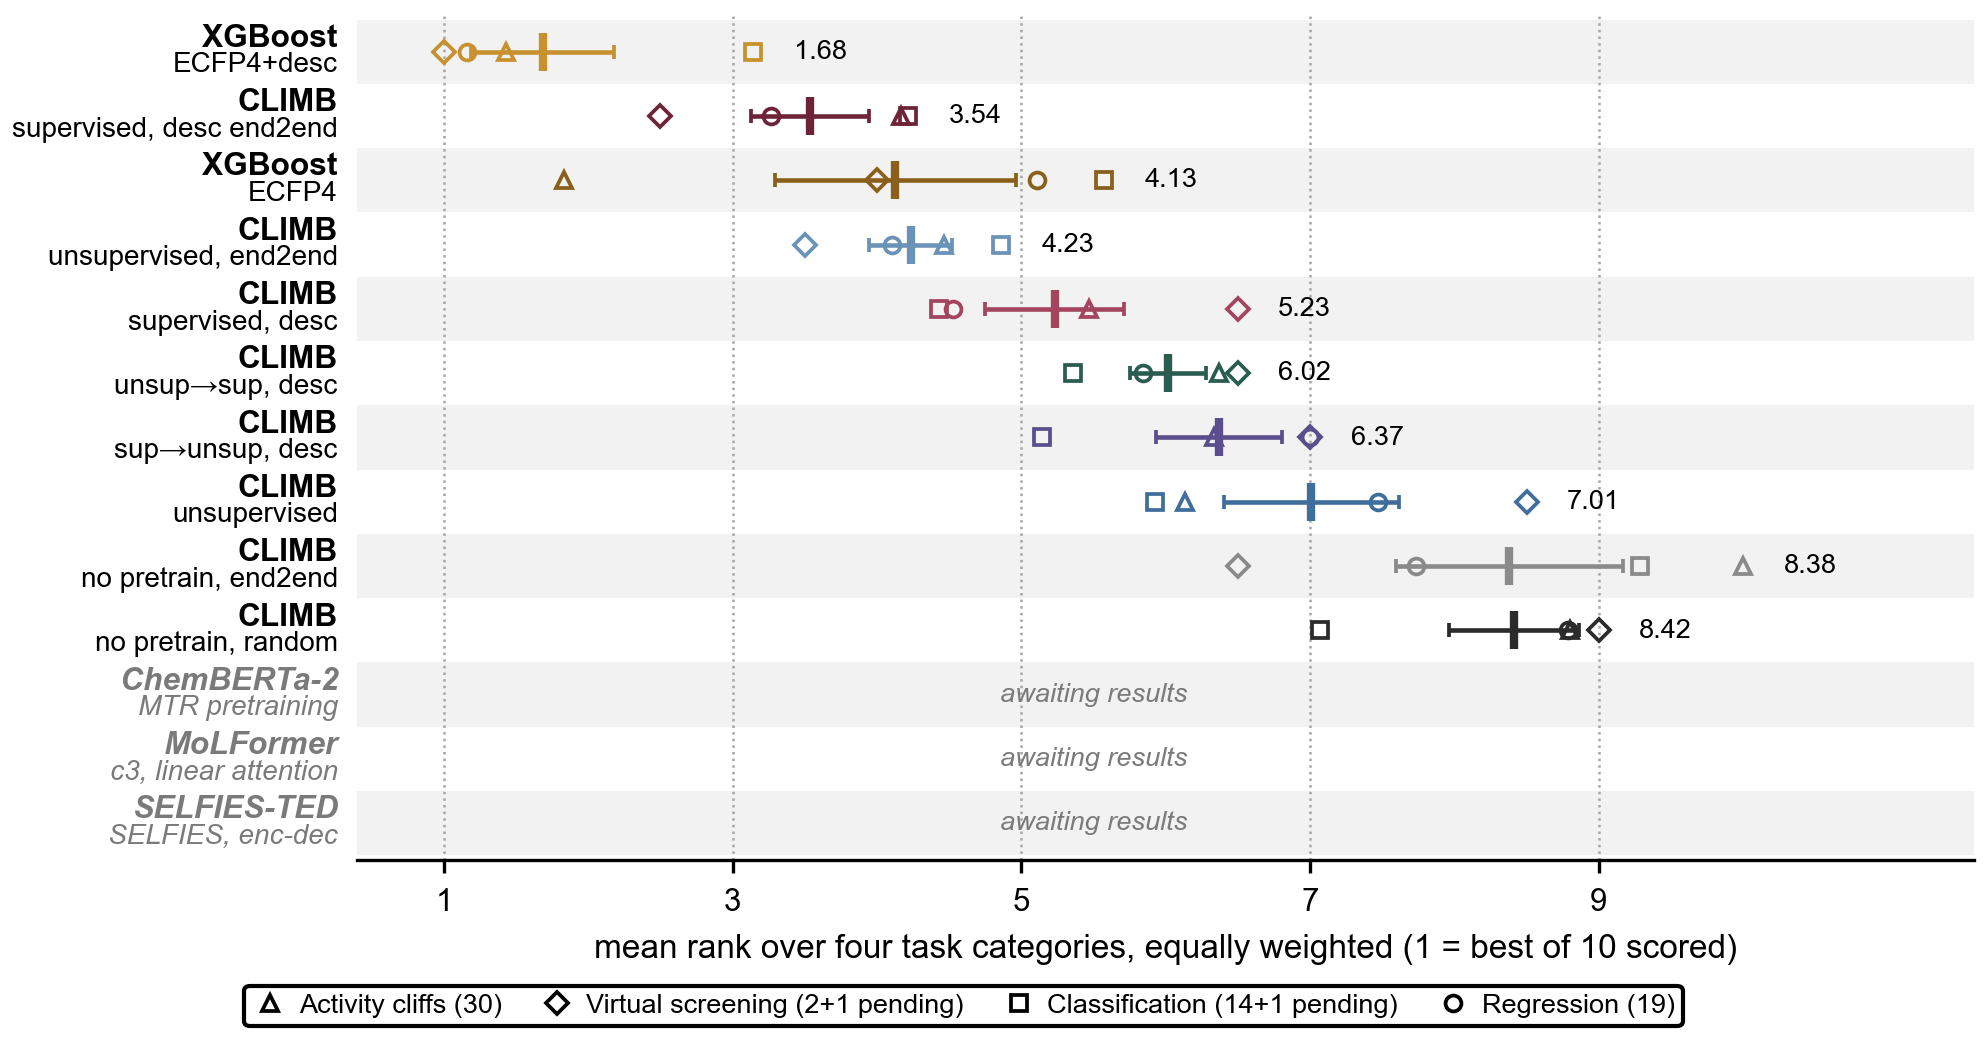
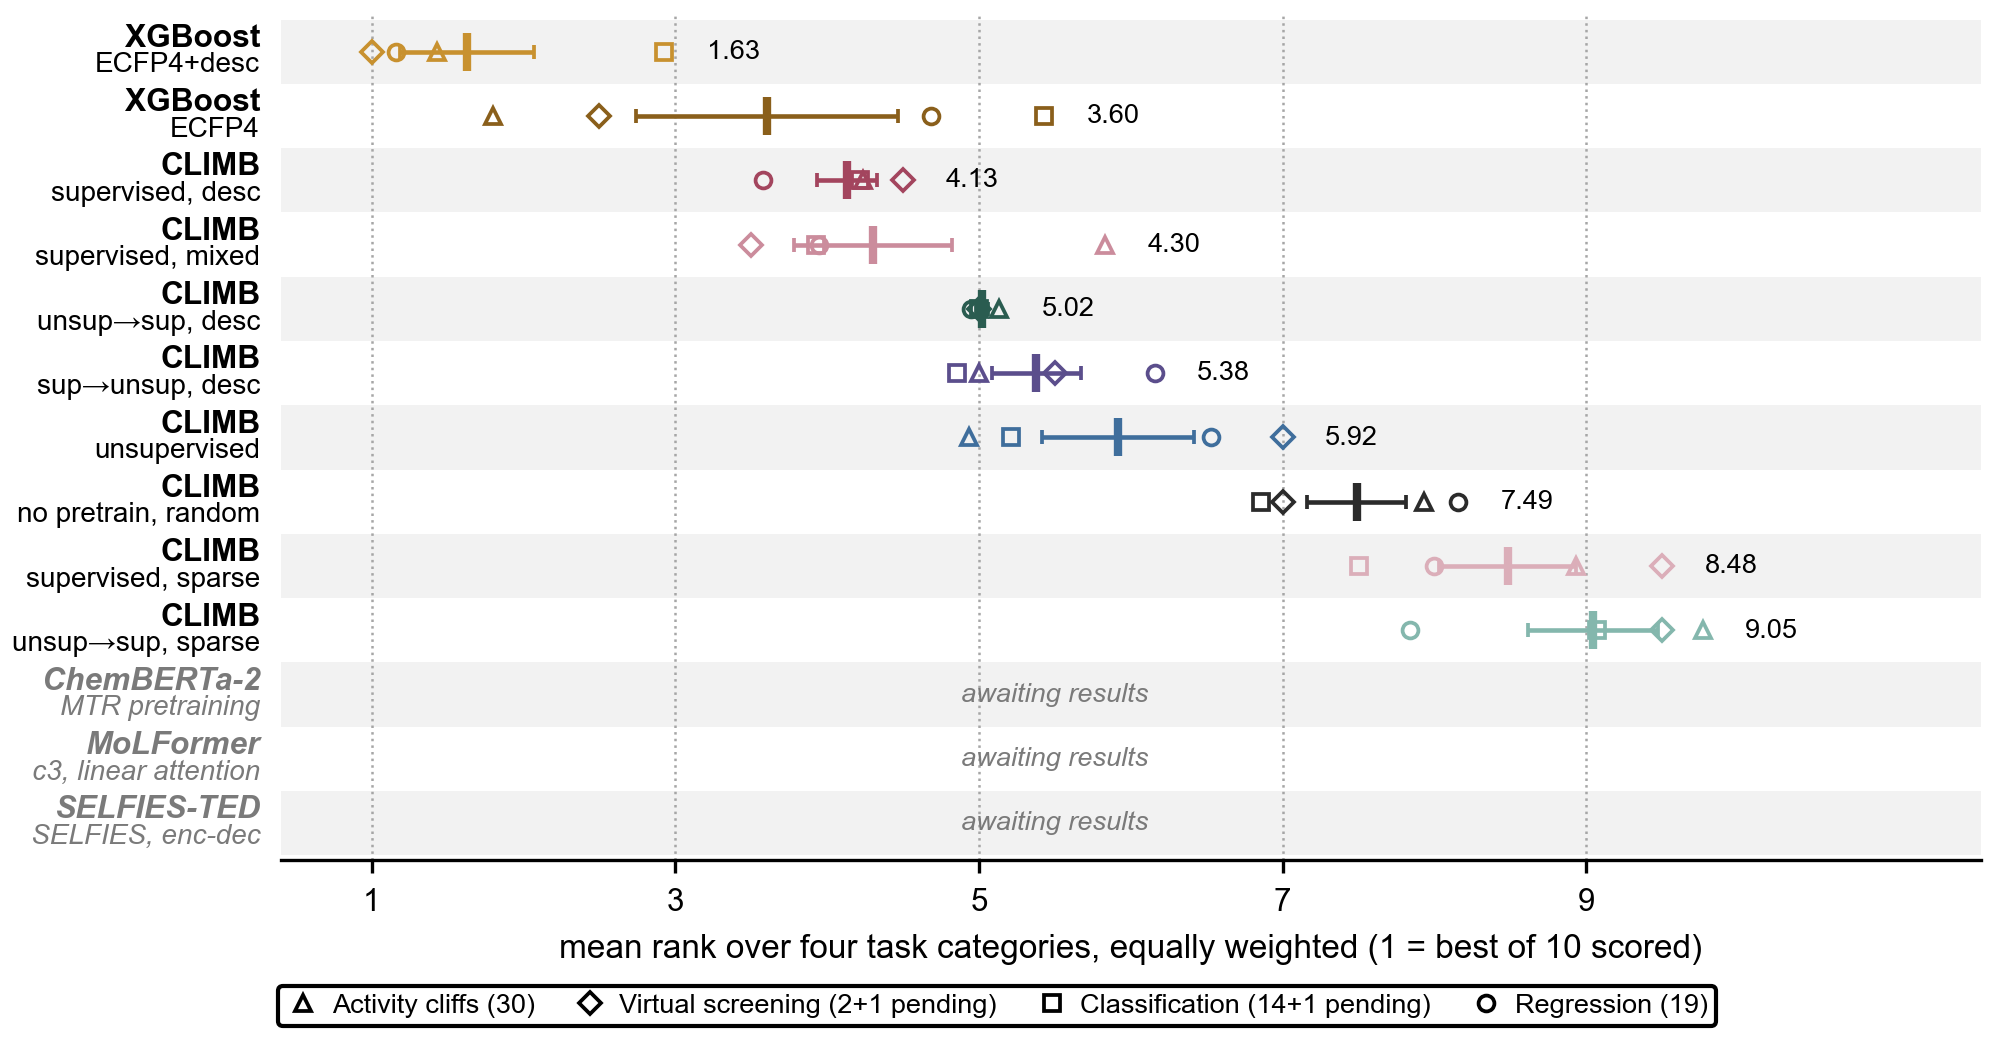
fig_A: Leif's eight CLIMB arms, and centre the legend by measurement
The CLIMB eight are now sup dense/sparse/mixed, unsup, unsup->sup dense/sparse,
sup->unsup dense and random. Thirteen rows with the two anchors and the three
literature CLMs.

EVERY ARM ON THE PLATE IS NOW A FROZEN REPRESENTATION WITH A TRAINED HEAD --
all four end-to-end arms are gone. That is a real improvement rather than a
cut for space: fine-tuning the whole network is the largest single effect in
this benchmark, so a table mixing frozen probes with fine-tuned networks ranks
two protocols at once, and an end-to-end row placing high says something about
fine-tuning rather than about pretraining. fig_A1 still carries that
comparison, with its own end-to-end key.

The legend is now centred by MEASUREMENT rather than by a tuned constant.
Nudging the anchor does not converge -- the saved plate is a tight crop, so
moving the legend moves the crop and the crop's centre moves with it (three
passes got to -21px and stalled). The stable reference is the axes tight bbox,
which is what sets the crop whenever the legend is the narrower of the two;
measured after a draw it lands at 0px, and it re-centres itself when the arm
list changes the width of the label column. Same reason the width multiplier
now carries a note that it moves with the label column: shortening the arm
labels took the plate from 6.69 to 6.36in.

The console table printed "CLIMB" for nine consecutive rows once _meta started
returning the two label lines separately; it prints both again.

diff --git a/figures/fig_A.py b/figures/fig_A.py
@@ -6,11 +6,11 @@ Full A4 text-block width, and as short as the content allows: one row per model,
 panel. The six per-dataset panels that used to sit underneath are fig_A2's job; repeating them
 here cost most of a page and said nothing the ranking did not.
 
-WHAT IS RANKED. Thirteen models. Each is ranked WITHIN every individual dataset (1 = best of the
-thirteen), those per-dataset ranks are averaged within each of four task categories, and the four
+WHAT IS RANKED. Thirteen models, every one of them a FROZEN representation with a trained head. Each is ranked WITHIN every individual dataset (1 = best of the
+field), those per-dataset ranks are averaged within each of four task categories, and the four
 category means are averaged with EQUAL WEIGHT. Ranking per dataset is what makes the pooling
 legal: the metrics are heterogeneous (RMSE, ROC-AUC, PR-AUC, NEF1%, Pearson r, Spearman rho) and
-cannot be averaged. A dataset scored on only k of the thirteen is rescaled from [1..k] to [1..13]
+cannot be averaged. A dataset scored on only k of the field is rescaled to the full field
 so a missing model cannot flatter the rest.
 
     coloured tick mean of the four category ranks
@@ -37,8 +37,7 @@ TWO NON-UNIFORMITIES THE CAPTION ALSO HAS TO CARRY (notes/figA-seed-axis-is-not-
 
 MISSING DATA IS DRAWN, NOT OMITTED. Three arms and two datasets are commissioned and not yet
 back. An arm with no results is a labelled empty row, not an absent row: dropping it would make
-the plate look finished and quietly renumber the field from thirteen to ten, which changes every
-rank on the page. The rank field is fixed at len(ARMS_13) for the same reason.
+the plate look finished and quietly renumber the field, which changes every rank on the page.
 
 Run:  python3 -m figures.fig_A
 """
@@ -55,15 +54,21 @@ from figures import tasksuites as T
 check_font()
 INK = "#000000"
 
-# ---------------------------------------------------------------- the thirteen -----------------
-# ASSUMED SUBSET, stated here rather than inferred: two classical anchors at XGBoost, the six
-# mainline CLIMB objectives plus two no-pretraining controls at frozen+MLP, and the three
-# literature CLMs. Changing the field is a one-line edit here; it is deliberately NOT derived from
-# arms.in_ranking, which admits all 22 arms including fig_A2's ablation ladder.
-ARMS_13 = ["ecfp", "ecfp_desc",
-           "unsup", "sup_dense", "u2s_dense", "s2u_dense", "unsup_e2e", "sup_dense_e2e",
-           "random_encoder", "e2e_no_pretrain",
-           "chemberta_mtr", "molformer_c3", "selfies_ted"]
+# ---------------------------------------------------------------- the ranked field --------------
+# The CLIMB seven are Leif's list (2026-08-25). Changing the field is a one-line edit here; it is
+# deliberately NOT derived from arms.in_ranking, which admits all 22 arms including fig_A2's
+# ablation ladder.
+#
+# EVERY ARM ON THIS PLATE IS NOW A FROZEN REPRESENTATION WITH A TRAINED HEAD. The list drops all
+# four end-to-end arms, which is a real improvement rather than a cosmetic cut: fine-tuning the
+# whole network is the largest single effect in this benchmark, so a table mixing frozen probes
+# with fine-tuned networks ranks two protocols at once and an end-to-end row placing high says
+# something about fine-tuning rather than about pretraining. fig_A1 carries that comparison, with
+# its own end-to-end key.
+RANKED_ARMS = ["ecfp", "ecfp_desc",
+               "sup_dense", "sup_sparse", "sup_mixed",
+               "unsup", "u2s_dense", "u2s_sparse", "s2u_dense", "random_encoder",
+               "chemberta_mtr", "molformer_c3", "selfies_ted"]
 
 # Arms with no entry in arms.py because their results have not landed. They are promoted into
 # arms.py -- colour, label, replicate convention -- when the run comes back; until then they are
@@ -81,12 +86,12 @@ PENDING_ARMS = {
 }
 assert not (set(PENDING_ARMS) & set(ARMS)), \
     "an arm is declared PENDING here and also present in arms.py -- promote it and delete it here"
-assert set(ARMS_13) - set(ARMS) == set(PENDING_ARMS), \
-    f"ARMS_13 names arms that are neither in arms.py nor declared pending: " \
-    f"{sorted(set(ARMS_13) - set(ARMS) - set(PENDING_ARMS))}"
+assert set(RANKED_ARMS) - set(ARMS) == set(PENDING_ARMS), \
+    f"RANKED_ARMS names arms that are neither in arms.py nor declared pending: " \
+    f"{sorted(set(RANKED_ARMS) - set(ARMS) - set(PENDING_ARMS))}"
 
-N = len(ARMS_13)
-HAVE = [a for a in ARMS_13 if a in ARMS]
+N = len(RANKED_ARMS)
+HAVE = [a for a in RANKED_ARMS if a in ARMS]
 
 
 def _meta(a):
@@ -106,7 +111,7 @@ def compute():
     """
     out, cat, R = T.wide_ranks(HAVE)
     missing = [a for a in HAVE if a not in out.index]
-    assert not missing, f"fig_A: arms in ARMS_13 with no row in the score table: {missing}"
+    assert not missing, f"fig_A: arms in RANKED_ARMS with no row in the score table: {missing}"
     avail = {k: int((cat == k).sum()) for k in T.CATEGORIES}
     return out, avail
 
@@ -116,7 +121,7 @@ BAND = "#F2F2F2"          # zebra row band, same value as fig_A1 so the two plat
 
 def main():
     out, avail = compute()
-    order = list(out.sort_values("mean_rank").index) + [a for a in ARMS_13 if a not in HAVE]
+    order = list(out.sort_values("mean_rank").index) + [a for a in RANKED_ARMS if a not in HAVE]
     nfield = len(HAVE)
 
     # One row per model. Thirteen rows plus axis and legend inside 3.4in, roughly a third of A4's
@@ -126,8 +131,10 @@ def main():
     # figsize wide: an axes box that leaves slack renders narrower than the text block and LaTeX
     # then scales every font in it up relative to the rest of the set. This layout is authored to
     # fill the canvas and measured at 6.73in against a 6.69in text block. Re-measure if the axes
-    # fractions below change -- the first version, with slack on both sides, rendered 5.58in.
-    fig = plt.figure(figsize=(STYLE["col2"] * 6.69 / 6.31, 3.45))
+    # fractions below change, AND when the row labels change: the multiplier is the ratio of the
+    # canvas to the crop, and the crop is set by the widest label in the left column, so shortening
+    # the arm list moved it. First version, with slack on both sides, rendered 5.58in.
+    fig = plt.figure(figsize=(STYLE["col2"] * 1.115, 3.45))
     # Row pitch is set by the axes HEIGHT, and it has two lines of text to hold rather than one
     # (Leif 2026-08-25: "XGBoost and its subtitle aren't squashed that much"). 2.83in over 13 rows
     # is 0.218in per row; at the previous 2.50in the bold line and its subtitle nearly touched the
@@ -200,9 +207,18 @@ def main():
     # NO KEY FOR THE TICK (Leif 2026-08-25). The x-axis already reads "mean rank over four task
     # categories" and the tick is the only filled mark on a row of open ones, so the entry
     # restated the axis and cost the legend a slot.
-    fig.legend(handles=h, loc="lower center", bbox_to_anchor=(0.517, 0.004),
-               ncol=row_ncol(h, rows=1), fontsize=FS["annot"] - 0.5, handletextpad=0.4,
-               columnspacing=1.4, borderpad=0.3, **LEGEND_BOX)
+    # CENTRED ON THE PLATE, MEASURED. Chasing this by nudging the anchor does not converge: the
+    # saved plate is a tight crop, so moving the legend moves the crop, and the crop's centre moves
+    # with it. The stable reference is the AXES tight bbox -- axes, tick labels, the hand-drawn row
+    # labels and the x-label, everything except the legend -- which is what sets the crop whenever
+    # the legend is the narrower of the two. Measure that after a draw, then place the legend on
+    # its centre. Also re-centres itself when the arm list changes the width of the label column.
+    leg = fig.legend(handles=h, loc="lower center", bbox_to_anchor=(0.5, 0.004),
+                     ncol=row_ncol(h, rows=1), fontsize=FS["annot"] - 0.5, handletextpad=0.4,
+                     columnspacing=1.4, borderpad=0.3, **LEGEND_BOX)
+    fig.canvas.draw()
+    bb = ax.get_tightbbox(fig.canvas.get_renderer()).transformed(fig.transFigure.inverted())
+    leg.set_bbox_to_anchor((0.5 * (bb.x0 + bb.x1), 0.004), transform=fig.transFigure)
 
     save(fig, "fig_A")
     plt.close(fig)
@@ -210,17 +226,18 @@ def main():
 
 
 def report(out, avail, order):
-    print(f"\nFig A — {len(HAVE)} of {len(ARMS_13)} arms scored, "
+    print(f"\nFig A — {len(HAVE)} of {len(RANKED_ARMS)} arms scored, "
           f"{out.attrs['n_datasets_total']} datasets in four categories\n")
-    print(f"   {'model':<26}" + "".join(f"{T.CAT_SHORT[k]:>9}" for k in T.CATEGORIES)
+    print(f"   {'model':<34}" + "".join(f"{T.CAT_SHORT[k]:>9}" for k in T.CATEGORIES)
           + f"{'mean':>8}{'SE':>7}{'n_ds':>6}")
     for a in order:
-        lab = _meta(a)[0]
+        _sys, _sub, _ = _meta(a)
+        lab = f"{_sys} {_sub}"
         if a not in HAVE:
-            print(f"   {lab:<26}" + f"{'awaiting results':>39}")
+            print(f"   {lab:<34}" + f"{'awaiting results':>39}")
             continue
         r = out.loc[a]
-        print(f"   {lab:<26}" + "".join(f"{r[k]:>9.2f}" for k in T.CATEGORIES)
+        print(f"   {lab:<34}" + "".join(f"{r[k]:>9.2f}" for k in T.CATEGORIES)
               + f"{r['mean_rank']:>8.2f}{r['se_rank']:>7.2f}{int(r['n_datasets']):>6}")
     print(f"\n   datasets per category: "
           + ", ".join(f"{k} {avail[k]}" for k in T.CATEGORIES))
